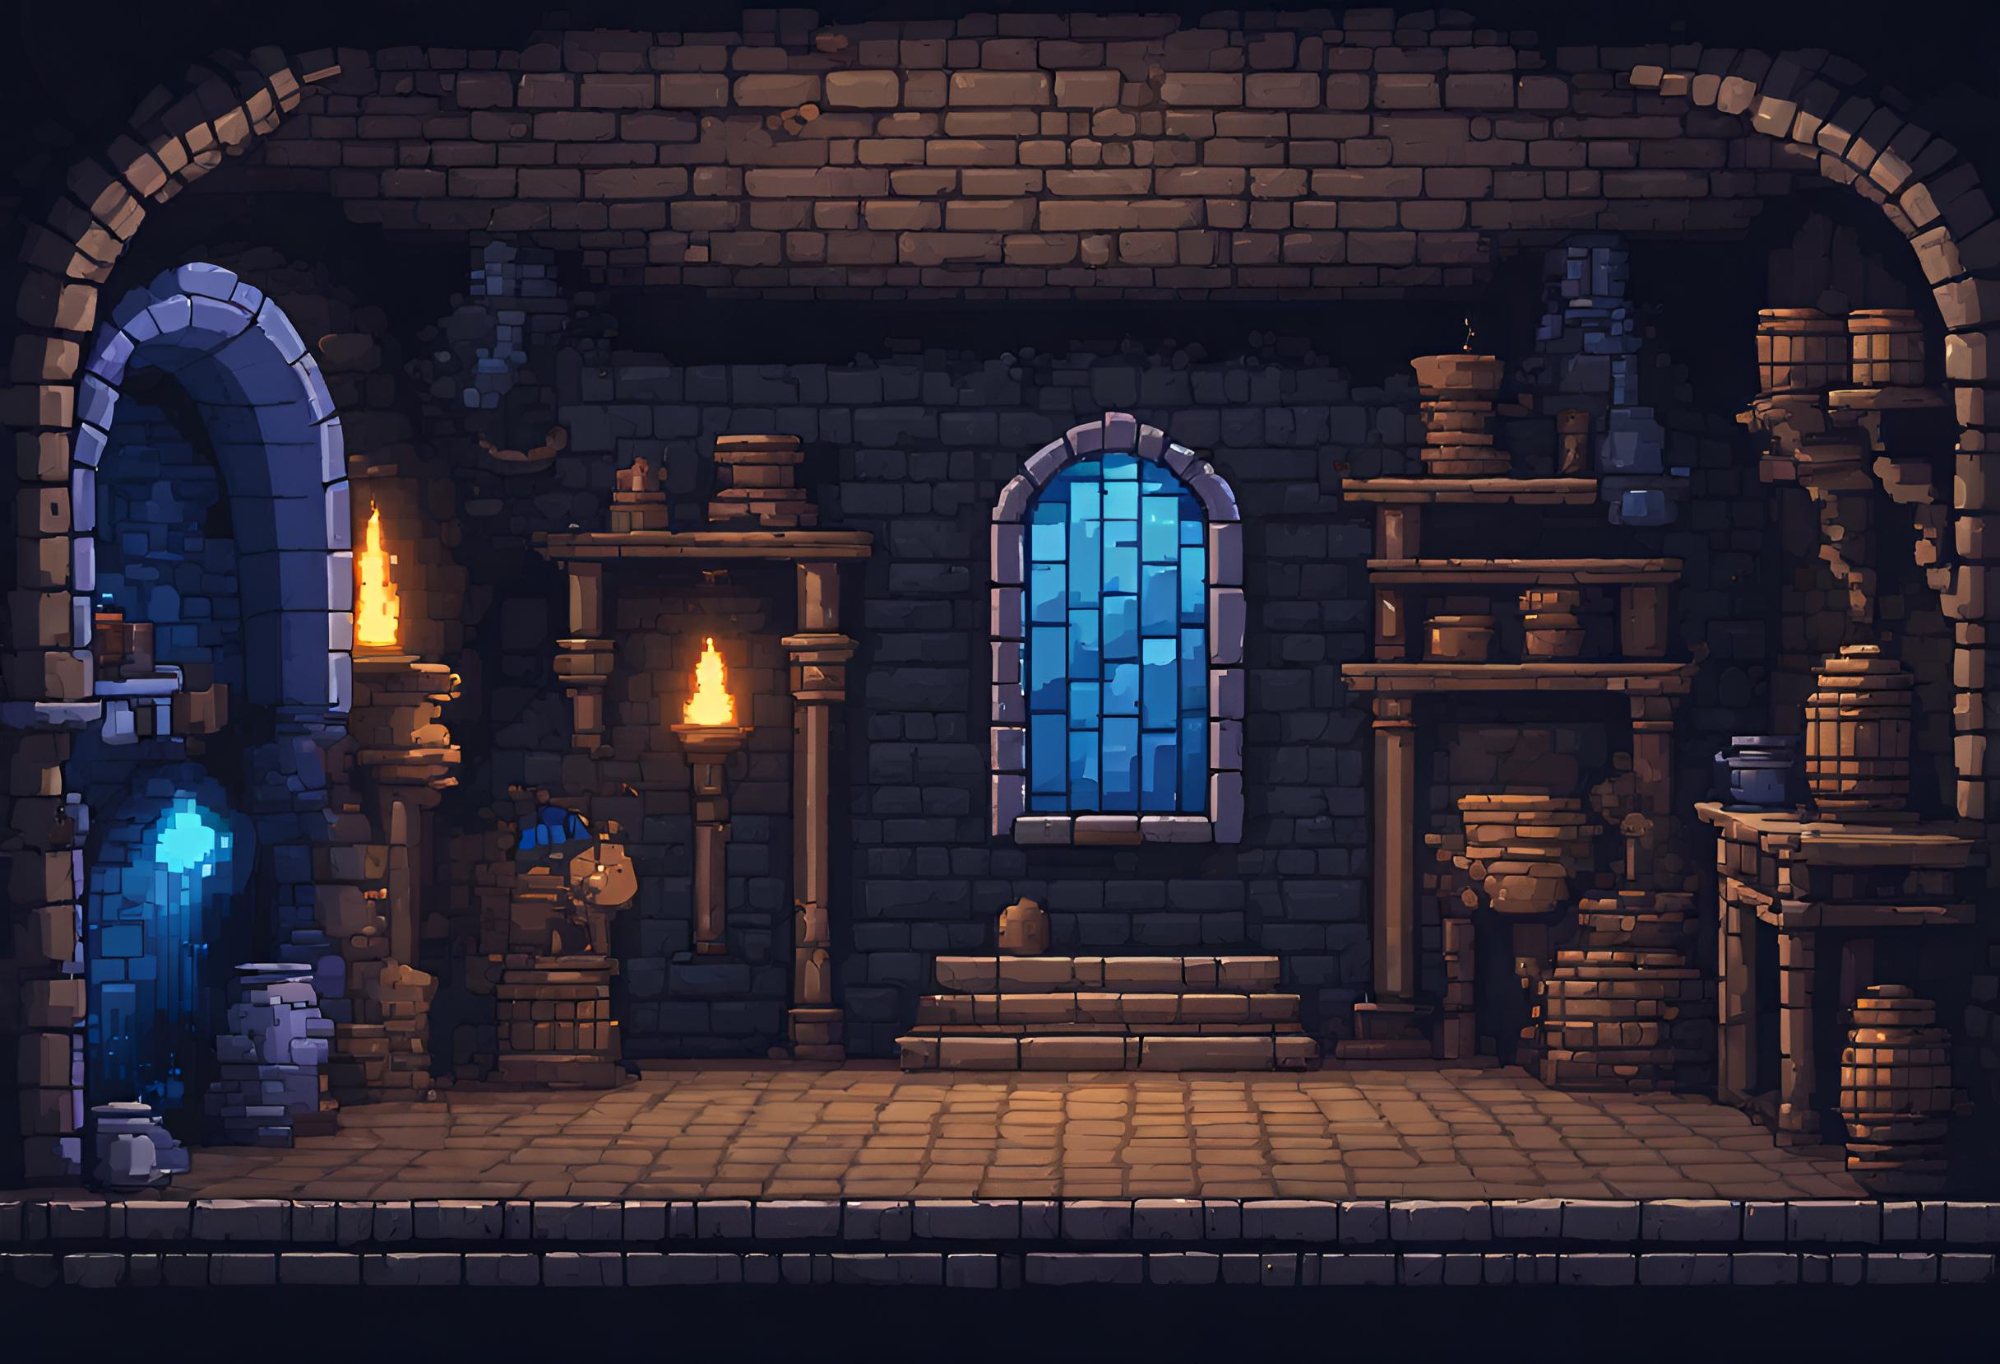
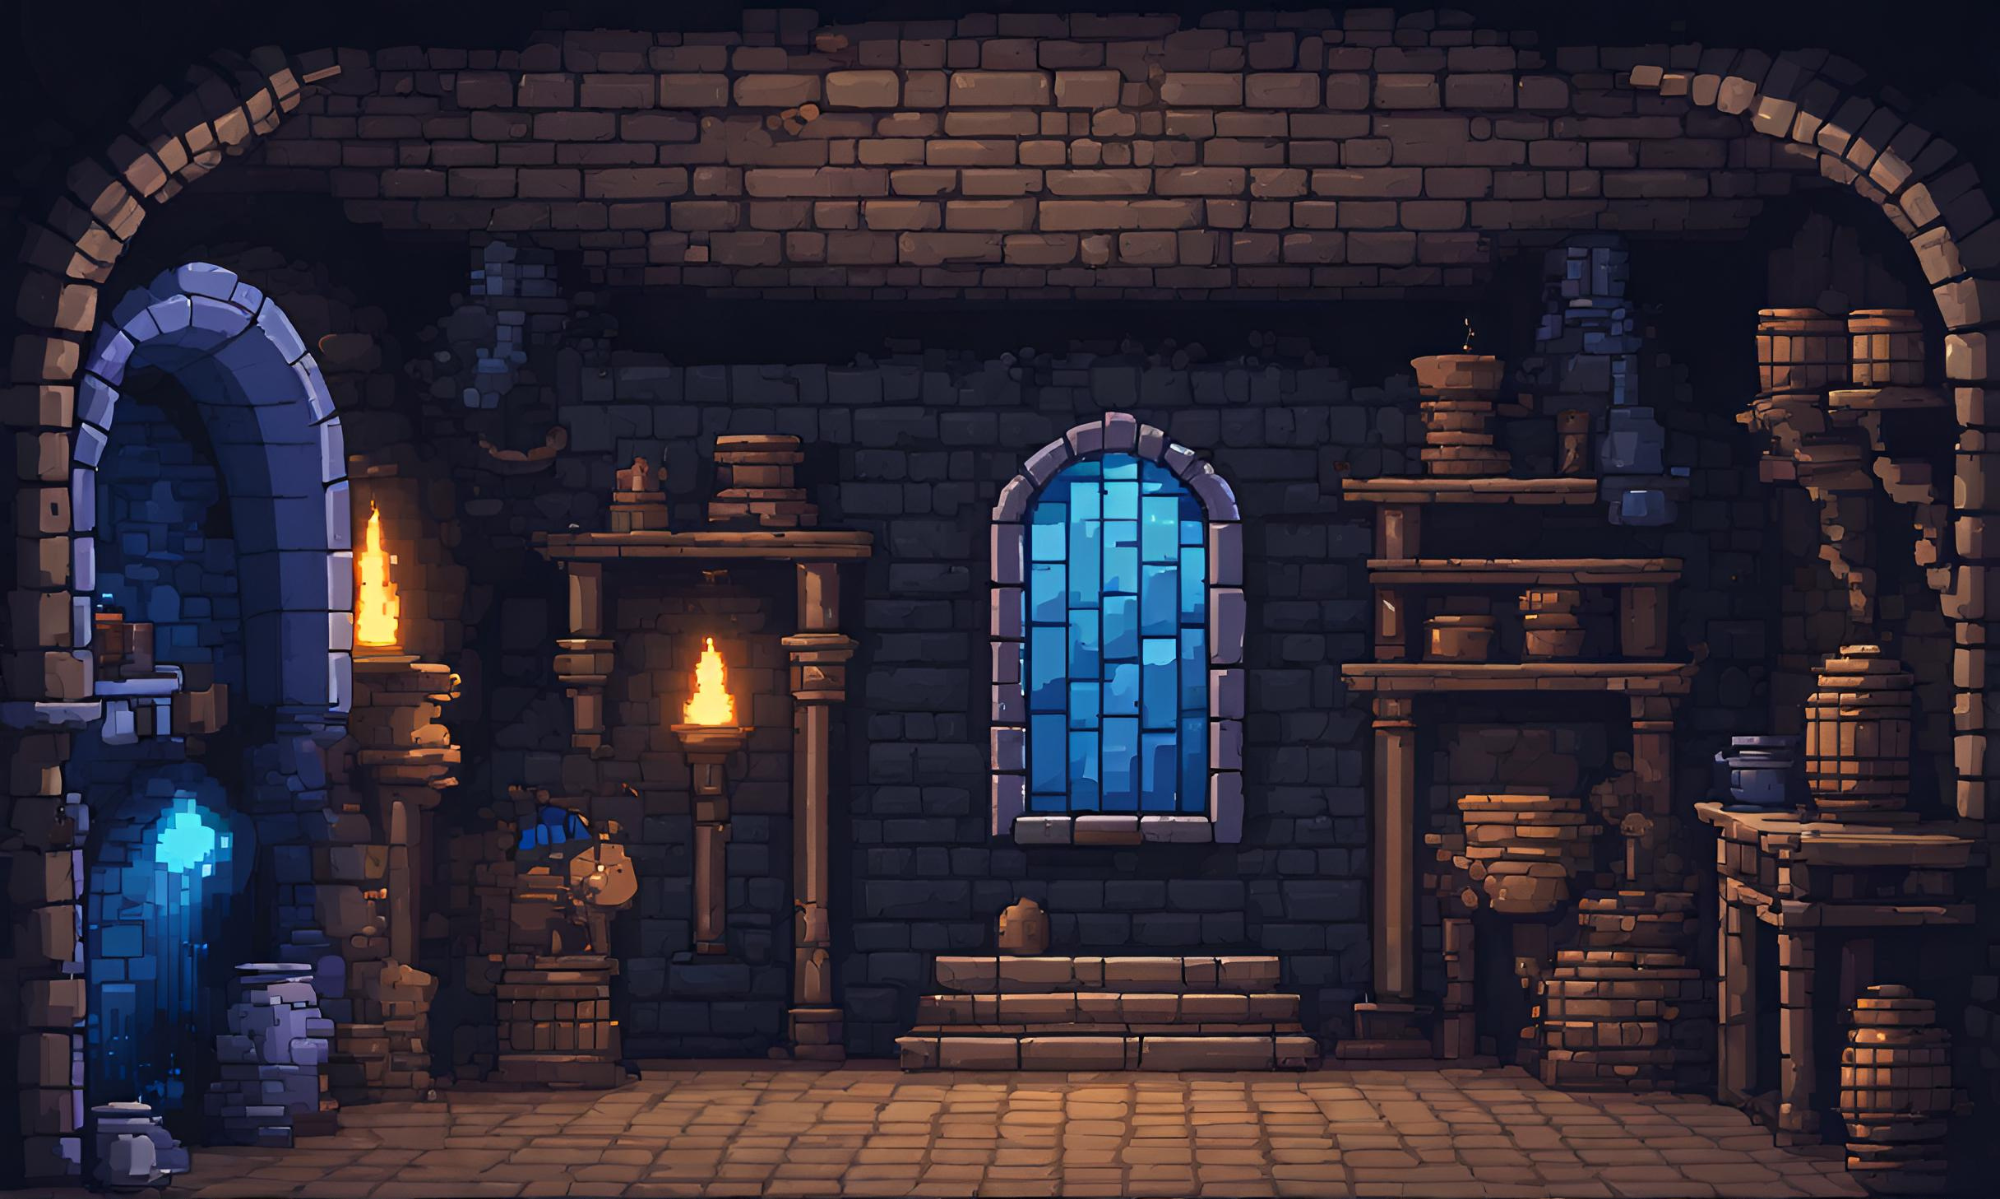
s

diff --git a/Elementals/scripts.js b/Elementals/scripts.js
@@ -1099,6 +1099,7 @@ function dev(){
     document.getElementById('text2').style.display = "block";
     document.getElementById('index').style.display = "none";
     document.body.style.backgroundImage="url('pics/bbg.png')";
+    document.body.style.backgroundPosition= "center";
     document.getElementById('aboutus').style.display = "block";
     document.body.style.overflowY="scroll";
     document.getElementById('text2').style.animation = "scrolling 2s linear forwards";
@@ -1107,6 +1108,7 @@ function backhome(){
     document.getElementById('index').style.display = "block";
     document.body.style.backgroundImage="url('pics/intro.png')";
     document.body.style.overflow="hidden";
+    document.body.style.backgroundPosition= "center bottom";
     document.getElementById('rules').style.display = "none";
     document.getElementById('aboutus').style.display = "none";
     document.getElementById('text1').style.display = "none";

diff --git a/Elementals/index.html b/Elementals/index.html
@@ -63,7 +63,7 @@
             font-family: "VT323", monospace;
             background-image: url('pics/intro.png');
             background-size: 100%;
-            background-position: center bottom;
+            background-position: center;
             background-attachment: fixed;
             overflow:hidden;
         }
